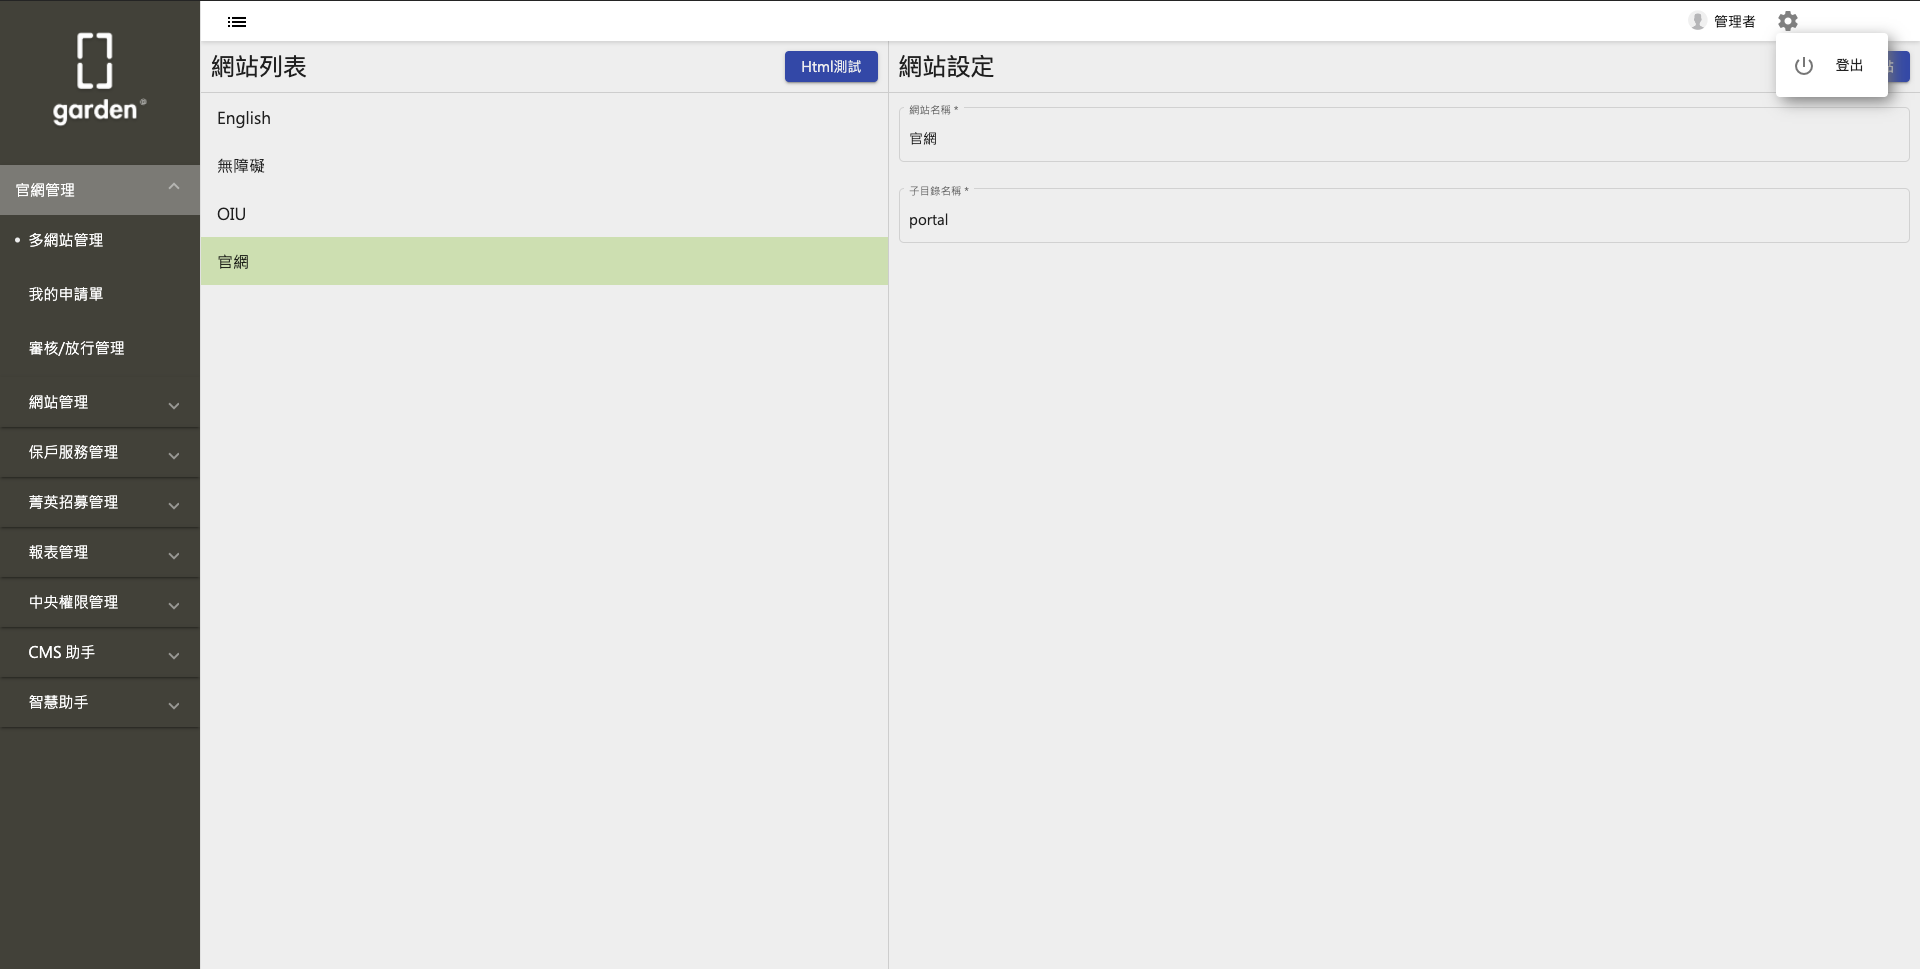
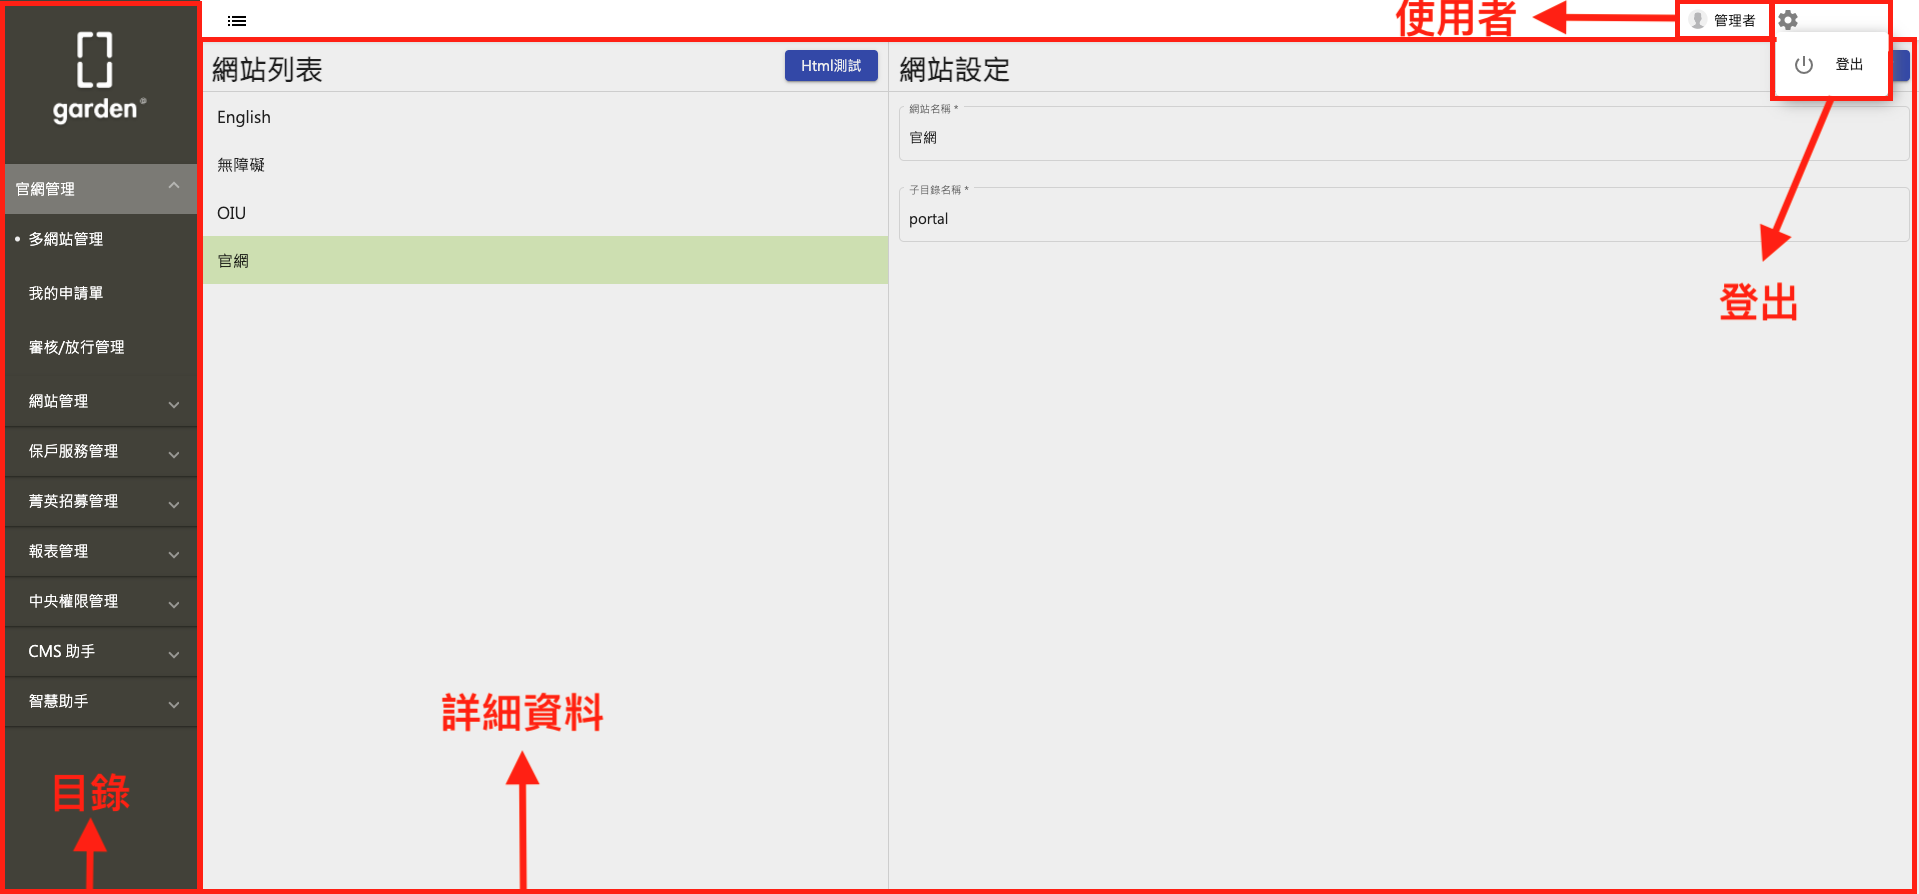
update

diff --git a/docs/instruction.md b/docs/instruction.md
@@ -4,19 +4,80 @@
 
 ![cms background image](https://i.imgur.com/eiR6mV9.png)
 
-何謂 CMS ?  &#13;
+CMS 全名為內容管理系統 ( content management system, 參考 [維基百科](https://zh.wikipedia.org/wiki/%E5%86%85%E5%AE%B9%E7%AE%A1%E7%90%86%E7%B3%BB%E7%BB%9F) ), 使用者只需簡單的設定步驟, 就能創建多個高度客製化的網站
 
-CMS = 內容管理系統(content management system)
+產品前身為 Farm, 使用較為單純的 xml 檔案做管理與運行,
+經過持續的新增、優化功能, 集農場於大成, 轉變成為大花園, 所以我們稱之為 **Garden CMS** &nbsp;
 
-在neux，我們稱為Garden,
-前身為farm, 產出xml,
-後來從農場轉變成一座花園。
+- 產品特色
+  - 設定步驟簡單
+  - 提供高度客製化彈性
+  - 內建權限管理機制, 管控每個帳號的操作權限
+  - "一" 個系統, 管理 "多" 個網站
 
-## 權限控管機制
+  以上功能還無法滿足你 ? &nbsp;
+
+  告訴我們您的需求, 由 Garden CMS 程式開發團隊, 客製化專屬您的需求 !
+
+---
+
+## 操作流程
+
+- 登入
+![登入](./assets/image/login.png)
+  輸入帳號、密碼、驗證碼進行登入 &nbsp;
+
+  關於帳號的權限, 請參考 [權限控管機制 - 帳號管理](#帳號管理) 
+
+- 主畫面
+  ![主畫面](./assets/image/dashboard.png)
+  - 使用者: 登入的使用者
+  - 登出: 登出, 重新回到登入頁
+  - 目錄: 此使用者能夠閱讀/操作的功能
+  - 詳細頁面: 點擊左側目錄項目後, 顯示對應的詳細頁面
+- 目錄各功能介紹
+  - 多網站管理
+    - 節點新增
+      ...
+    - 節點編輯
+      ...
+    - 節點預覽
+      ...
+  - 我的申請單
+    ...
+  - 審核/放行管理
+    - 節點審核
+      ...
+    - 節點放行
+      ...
+  - 網站管理
+    ...
+  - 報表管理 ?? (問後台)
+    - 權限報表
+    - 使用者登入軌跡記錄
+    - 登入操作功能項目紀錄
+    - 審核報表
+  - 中央權限管理
+    - 部門管理 ?? (問後台)
+    - 帳號管理 &nbsp;
+
+      參考 [權限控管機制 - 帳號管理](#帳號管理)
+
+    - 群組管理  &nbsp;
+
+      參考 [權限控管機制 - 群組管理](#群組管理)
+  - ~~CMS 助手~~
+  - ~~智慧助手~~
+
+---
+
+## 附錄
+
+### 權限控管機制
 
 cms 以 **"群組"** 為權限控管的單位, 後續設定各帳號隸屬於什麼群組(1個帳號可以隸屬於1個或多個群組)
 
-- 群組: 針對各群組設定 **"前台節點[^1]"**, **"後台功能"** 的權限
+- #### 群組管理: 針對各群組設定 **"前台節點[^1]"**, **"後台功能"** 的權限
 
   (官網管理 -> 中央權限管理 -> 群組管理)
   ![權限控管](./assets/image/authorityControl.png)
@@ -38,7 +99,7 @@ cms 以 **"群組"** 為權限控管的單位, 後續設定各帳號隸屬於什
     1. 設定目錄各項目的權限 (打勾代表看得到)
   ![設定目錄各項目的權限](./assets/image/authorityControlBackend.png)
 
-- 帳號: 設定帳號隸屬於哪個/些群組
+- #### 帳號管理: 設定帳號隸屬於哪個/些群組
 
   (官網管理 -> 中央權限管理 -> 群組管理)
   ![設定帳號隸屬於哪個/些群組](./assets/image/authorityControlAccount.png)
@@ -46,39 +107,12 @@ cms 以 **"群組"** 為權限控管的單位, 後續設定各帳號隸屬於什
   - 編輯各帳號相關資訊 (打勾代表帳號屬於該群組)
   ![編輯各帳號相關資訊](./assets/image/authorityControlAccountPopup.png)
 
-## 操作流程
+---
 
-- 登入
-![登入](./assets/image/login.png)
-
-
-
-- 主畫面
-  - 使用者
-  - 登出
-  - 目錄
-  - 詳細頁面
-- 目錄各功能介紹
-  - 多網站管理
-  - 我的申請單
-  - 審核/放行管理
-  - 網站管理
-  - 保戶服務管理
-  - 菁英招募管理
-  - 報表管理
-    - 權限報表
-    - 使用者登入軌跡記錄
-    - 登入操作功能項目紀錄
-    - 審核報表
-  - 中央權限管理
-    - 部門管理
-    - 帳號管理
-    - 群組管理
-  - ~~CMS 助手~~
-  - ~~智慧助手~~
-
-### 名詞說明
+## 名詞說明
 
 - 節點
 
-[^1]: 《節點》節點描述
+[^1]: 《節點》...
+
+---
